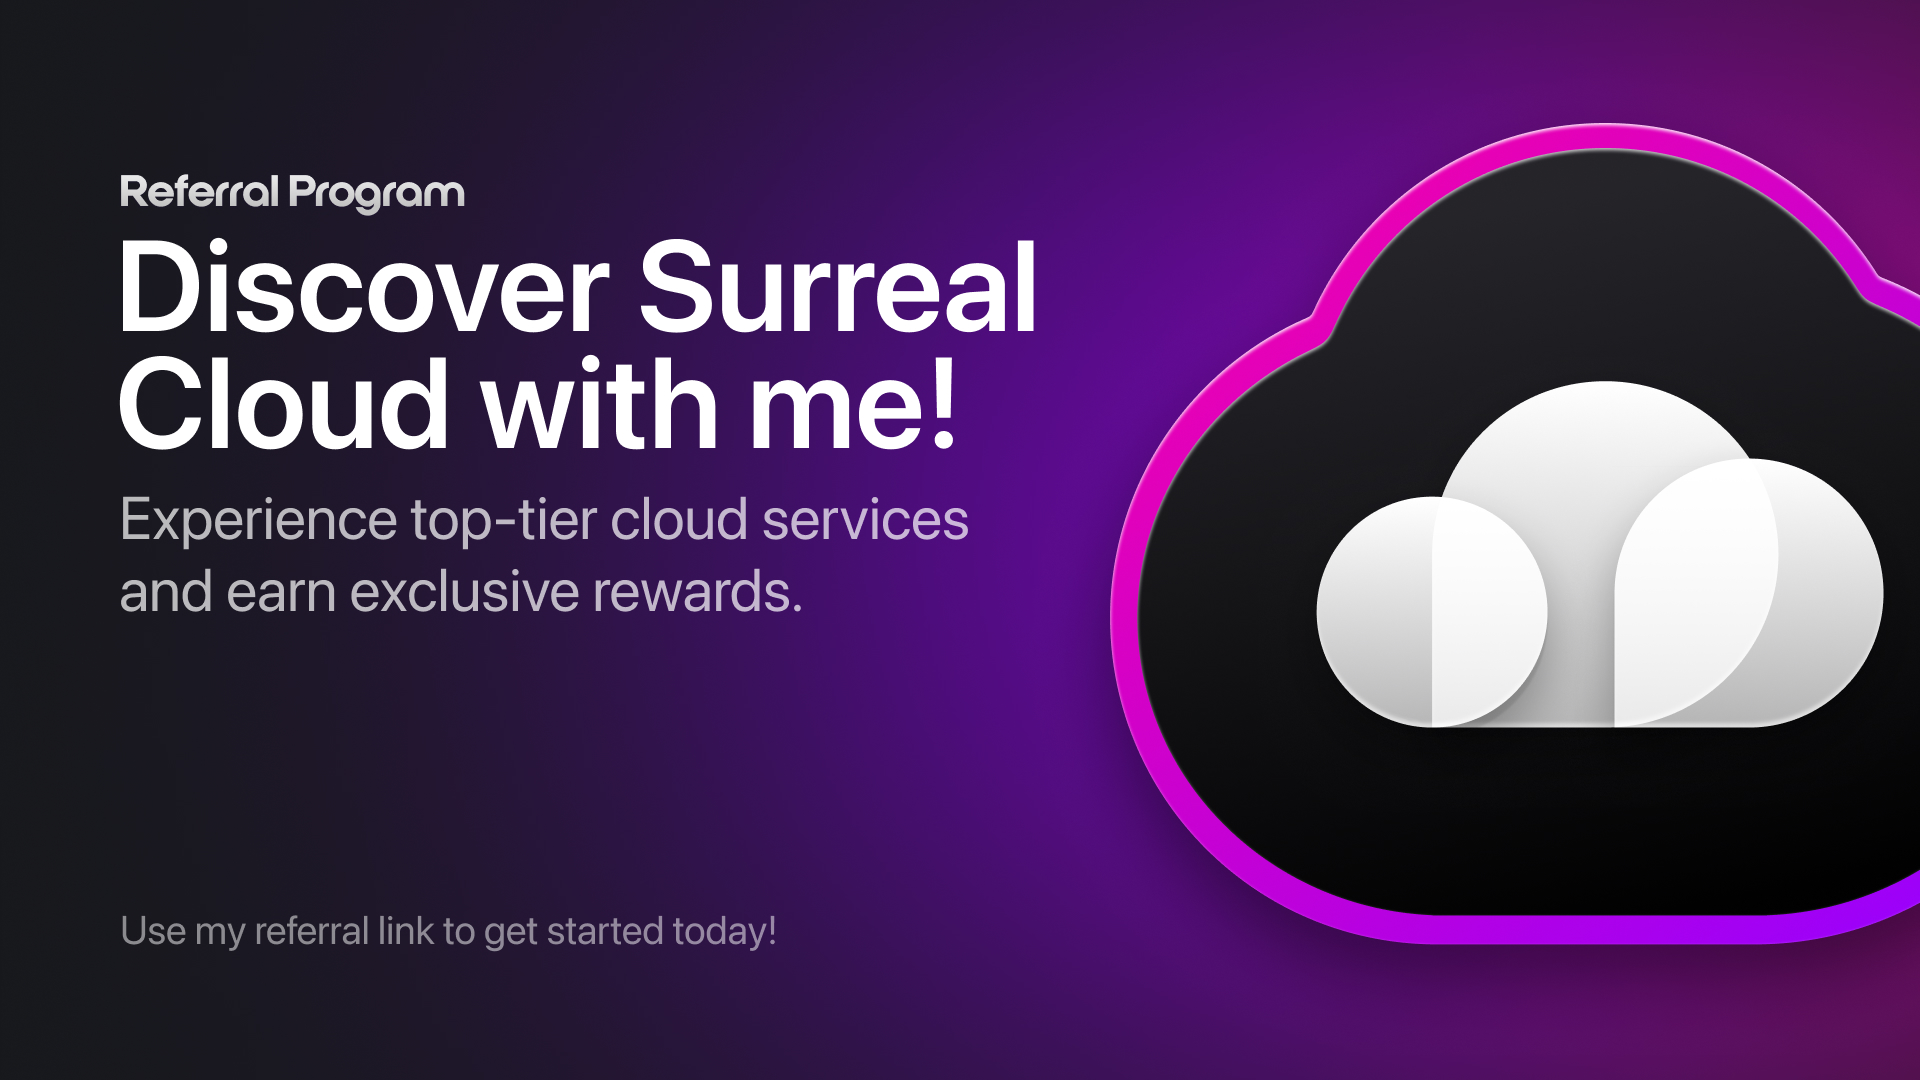
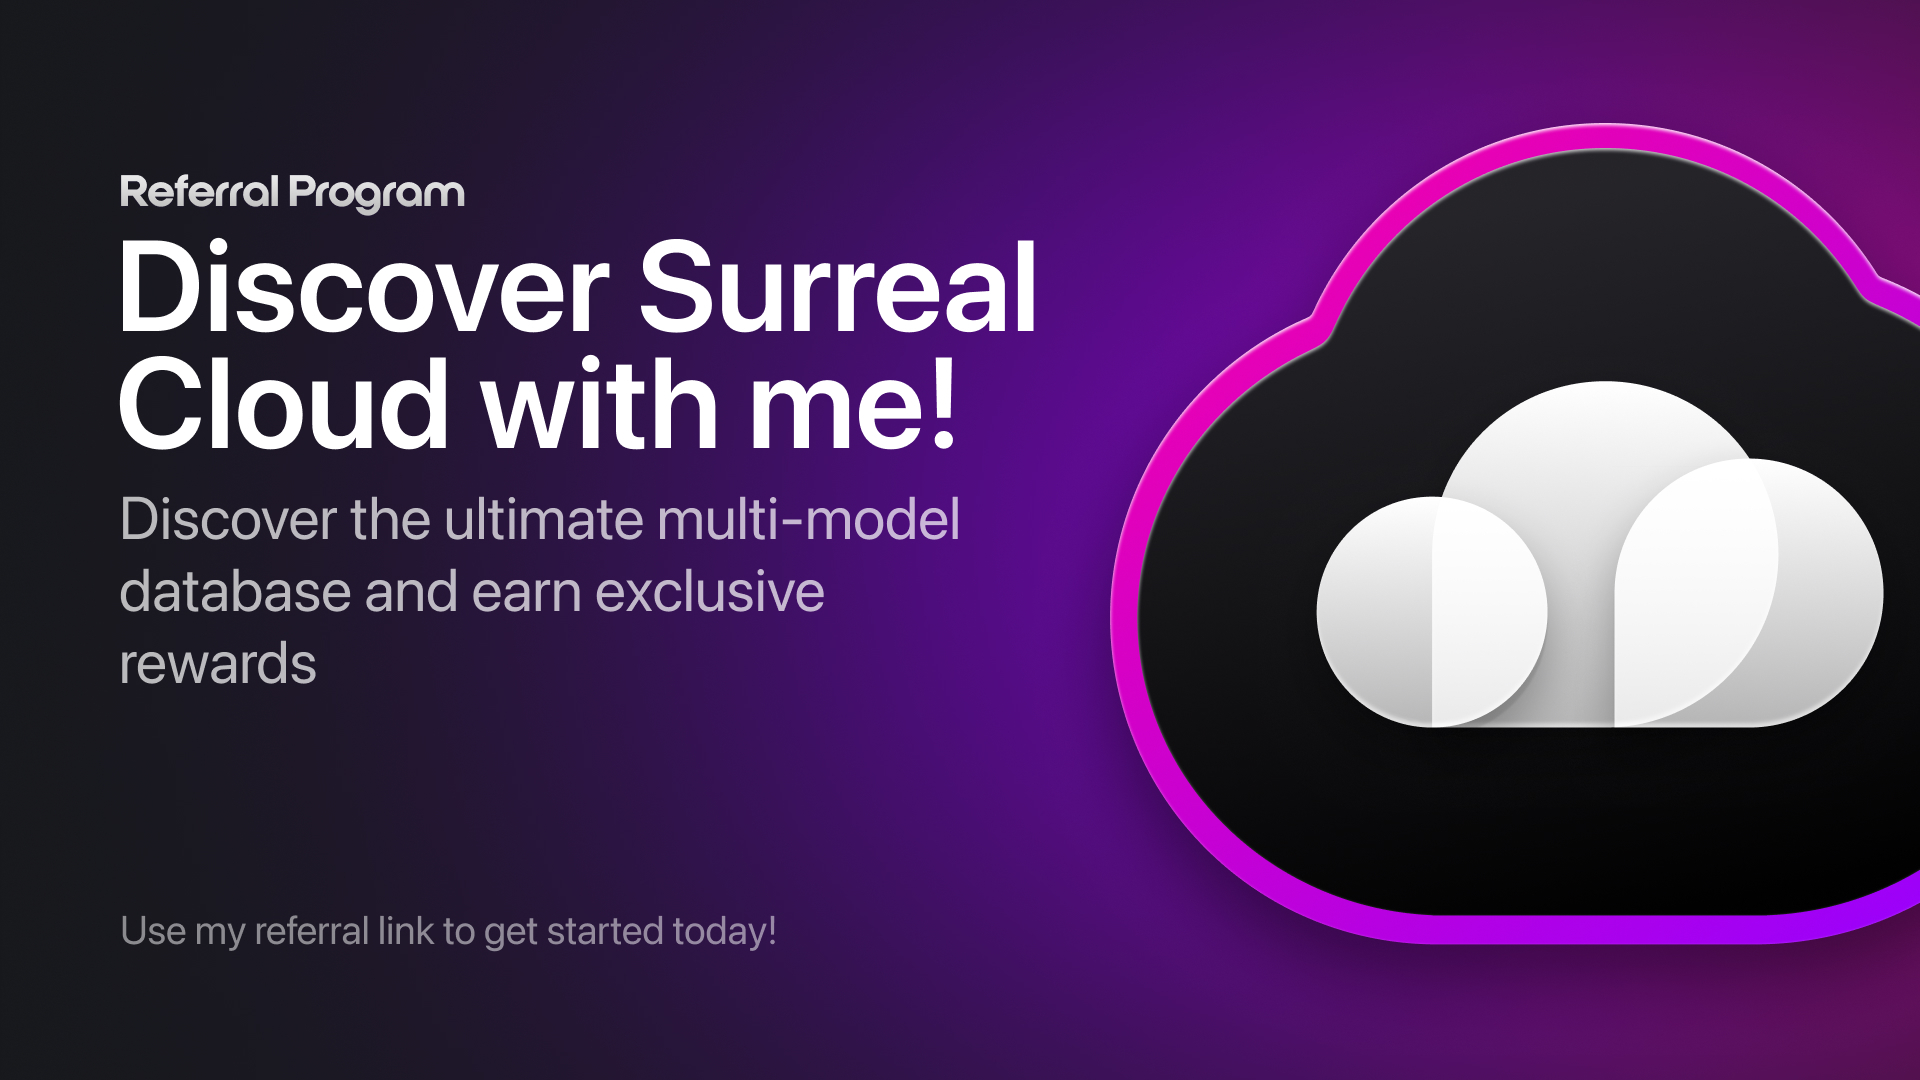
Release 3.1.8 (#631)

Changed region(s): [[0.0625, 0.4583, 0.5, 0.6417]]

diff --git a/src/screens/surrealist/cloud-panel/pages/Referral/index.tsx b/src/screens/surrealist/cloud-panel/pages/Referral/index.tsx
@@ -31,6 +31,7 @@ import {
 	Stack,
 	Text,
 	TextInput,
+	Tooltip,
 } from "@mantine/core";
 
 import { ReactNode } from "react";
@@ -38,10 +39,9 @@ import { Icon } from "~/components/Icon";
 import { Label } from "~/components/Label";
 import { PrimaryTitle } from "~/components/PrimaryTitle";
 import { Slab, SlabProps } from "~/components/Slab";
-import { useStable } from "~/hooks/stable";
 import { useIsLight } from "~/hooks/theme";
-import { ON_FOCUS_SELECT, showError } from "~/util/helpers";
-import { iconCheck, iconCopy } from "~/util/icons";
+import { ON_FOCUS_SELECT } from "~/util/helpers";
+import { iconCheck, iconCopy, iconHelp } from "~/util/icons";
 import { useCloudReferralQuery } from "../../hooks/referral";
 
 interface RewardProps extends Omit<SlabProps, "title"> {
@@ -89,17 +89,6 @@ export function ReferralPage() {
 	};
 
 	const showShare = "canShare" in navigator && navigator.canShare(shareOptions);
-
-	const shareLink = useStable(() => {
-		navigator.share(shareOptions).catch((err: any) => {
-			console.error(err);
-
-			showError({
-				title: "Failed to share referral link",
-				subtitle: "Please copy it manually instead",
-			});
-		});
-	});
 
 	return (
 		<Box
@@ -202,7 +191,7 @@ export function ReferralPage() {
 											{showShare && (
 												<Button
 													variant="gradient"
-													onClick={shareLink}
+													onClick={() => navigator.share(shareOptions)}
 												>
 													Share
 												</Button>
@@ -222,7 +211,31 @@ export function ReferralPage() {
 						>
 							<Reward
 								title="1-5 referrals"
-								description="Discount codes"
+								description={
+									<Group gap="xs">
+										Free credits
+										<Tooltip
+											position="bottom"
+											label={
+												<Text
+													w={150}
+													style={{ whiteSpace: "pre-line" }}
+												>
+													You receive $10 credits per referral, for a
+													maximum of $50. The person you invite receives
+													$25.
+												</Text>
+											}
+										>
+											<Box>
+												<Icon
+													path={iconHelp}
+													size="sm"
+												/>
+											</Box>
+										</Tooltip>
+									</Group>
+								}
 								icon={isLight ? tier1LightUrl : tier1DarkUrl}
 							/>
 							<Reward
@@ -278,7 +291,7 @@ export function ReferralPage() {
 									fz={18}
 									c="bright"
 								>
-									Friends Sign Up
+									Friends sign up
 								</Text>
 								<Text mt="xs">
 									When someone uses your link to sign up, they'll get a special
@@ -291,7 +304,7 @@ export function ReferralPage() {
 									fz={18}
 									c="bright"
 								>
-									You Get Rewarded
+									You get rewarded
 								</Text>
 								<Text mt="xs">
 									Once your referral completes a qualifying action (like making a

diff --git a/src/components/App/modals/data-export.tsx b/src/components/App/modals/data-export.tsx
@@ -15,7 +15,7 @@ import { useIntent } from "~/hooks/routing";
 import { useTableNames } from "~/hooks/schema";
 import { useStable } from "~/hooks/stable";
 import { requestDatabaseExport } from "~/screens/surrealist/connection/connection";
-import { showInfo, slugify } from "~/util/helpers";
+import { showError, showInfo, slugify } from "~/util/helpers";
 import { iconDownload } from "~/util/icons";
 import { syncConnectionSchema } from "~/util/schema";
 
@@ -45,7 +45,7 @@ export function DataExportModal() {
 		functions: true,
 		params: true,
 		users: true,
-		versions: true,
+		versions: false,
 		records: true,
 		tables: [],
 	});
@@ -60,16 +60,21 @@ export function DataExportModal() {
 				[SURQL_FILTER],
 				async () => {
 					setIsExporting(true);
-					return (await requestDatabaseExport(config)) ?? null;
+					return requestDatabaseExport(config);
 				},
 			);
 
 			if (success) {
 				showInfo({
 					title: "Export",
-					subtitle: "Database export successfully created",
+					subtitle: "Database successfully exported",
 				});
 			}
+		} catch (err: any) {
+			showError({
+				title: "Export failed",
+				subtitle: err.message,
+			});
 		} finally {
 			setIsExporting(false);
 			openedHandle.close();

diff --git a/tools/cloud-referral.html b/tools/cloud-referral.html
@@ -13,7 +13,7 @@
 	<title>Discover Surreal Cloud</title>
 
 	<!-- Twitter Cards & Open Graph -->
-	<meta name="description" content="Experience top-tier cloud services and earn exclusive rewards.">
+	<meta name="description" content="Discover the ultimate multi-modal database and earn exclusive rewards">
 	<meta name="twitter:card" content="summary_large_image">
 	<meta name="twitter:site" content="@SurrealDB">
 	<meta name="twitter:title" content="Surrealist">
@@ -21,7 +21,7 @@
 		content="https://raw.githubusercontent.com/surrealdb/surrealist/main/.github/images/cloud-referral.jpg">
 	<meta name="og:title" content="Surrealist">
 	<meta name="og:type" content="website">
-	<meta name="og:description" content="Experience top-tier cloud services and earn exclusive rewards.">
+	<meta name="og:description" content="Discover the ultimate multi-modal database and earn exclusive rewards">
 	<meta name="og:image"
 		content="https://raw.githubusercontent.com/surrealdb/surrealist/main/.github/images/cloud-referral.jpg">
 </head>

diff --git a/src/screens/surrealist/connection/connection.tsx b/src/screens/surrealist/connection/connection.tsx
@@ -120,7 +120,7 @@ export async function openConnection(options?: ConnectOptions) {
 		if (connection.authentication.mode === "cloud") {
 			const { authState } = useCloudStore.getState();
 
-			if (authState === "loading") {
+			if (authState === "loading" || authState === "unknown") {
 				scheduleReconnect(1000);
 				return;
 			}
@@ -636,11 +636,7 @@ export async function requestDatabaseExport(config?: ExportOptions) {
 	const useModern = compareVersions(version, "2.1.0");
 
 	if (!connection || currentState !== "connected") {
-		showError({
-			title: "Failed to export",
-			subtitle: "You must be connected to the remote instance",
-		});
-		return;
+		throw new Error("Not connected to an instance");
 	}
 
 	if (useModern) {

diff --git a/src/adapter/browser.tsx b/src/adapter/browser.tsx
@@ -121,12 +121,12 @@ export class BrowserAdapter implements SurrealistAdapter {
 		_title: string,
 		defaultPath: string,
 		_filters: any,
-		content: () => Result<string | Blob | null>,
+		content: () => Result<string | Blob>,
 	): Promise<boolean> {
 		const result = await content();
 
 		if (!result) {
-			return false;
+			throw new Error("File is empty");
 		}
 
 		const file =
@@ -252,7 +252,7 @@ export class BrowserAdapter implements SurrealistAdapter {
 			config.connectionGroups.push({
 				id: INSTANCE_GROUP,
 				name: instanceConfig.groupName,
-				collapsed: instanceConfig.groupCollapsed
+				collapsed: instanceConfig.groupCollapsed,
 			});
 		}
 

diff --git a/src/screens/surrealist/components/ConnectionStatus/index.tsx b/src/screens/surrealist/components/ConnectionStatus/index.tsx
@@ -204,6 +204,7 @@ export function ConnectionStatus() {
 						<Menu.Label mt="sm">Instance</Menu.Label>
 						<Menu.Item
 							leftSection={<Icon path={iconRelation} />}
+							disabled={currentState !== "connected"}
 							onClick={() => showNodeStatus()}
 						>
 							View node status

diff --git a/src/adapter/desktop.tsx b/src/adapter/desktop.tsx
@@ -195,7 +195,7 @@ export class DesktopAdapter implements SurrealistAdapter {
 		const result = await content();
 
 		if (!result) {
-			return false;
+			throw new Error("File is empty");
 		}
 
 		if (typeof result === "string") {

diff --git a/src/assets/changelogs/3.1.8.md b/src/assets/changelogs/3.1.8.md
@@ -1,0 +1,15 @@
+---
+title: Surrealist 3.1.8
+summary: Minor improvements
+date: 2024/12/20
+---
+
+- Added Sidekick to the sidebar for easy access
+- Added connection group collapsing
+- Improved overal rendering performance
+- Fixed query editor error highlighting not displaying
+- Fixed improper placeholder text in permission inputs
+- Fixed the sidebar not always closing on mobile
+- Improvements to the Surreal Cloud panel
+	- Added the ability to view instance storage usage
+	- Added a dedicated referrals page
